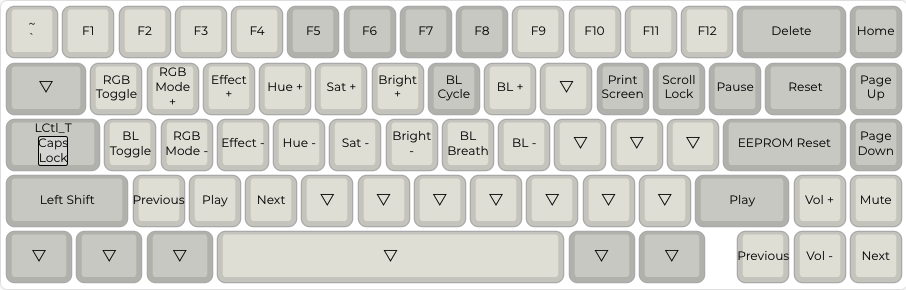
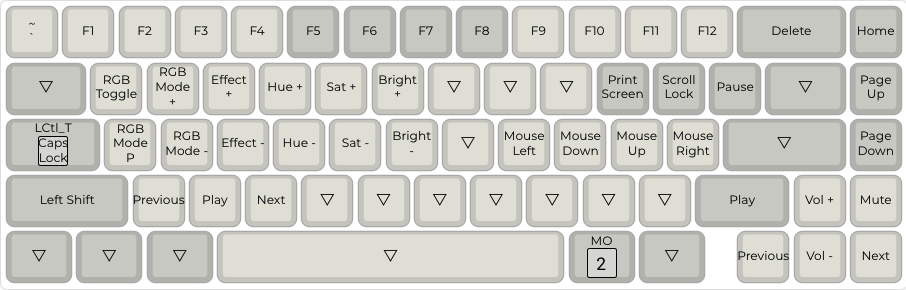
improved d65 config

diff --git a/kbdfans/d65/keymap.c b/kbdfans/d65/keymap.c
@@ -8,7 +8,8 @@
  */
 
 const uint16_t PROGMEM keymaps[][MATRIX_ROWS][MATRIX_COLS] = {
-	[0] = LAYOUT_65_ansi_blocker(KC_GESC, KC_1, KC_2, KC_3, KC_4, KC_5, KC_6, KC_7, KC_8, KC_9, KC_0, KC_MINS, KC_EQL, KC_BSPC, KC_HOME, KC_TAB, KC_Q, KC_W, KC_E, KC_R, KC_T, KC_Y, KC_U, KC_I, KC_O, KC_P, KC_LBRC, KC_RBRC, KC_BSLS, KC_PGUP, LCTL_T(KC_CAPS), KC_A, KC_S, KC_D, KC_F, KC_G, KC_H, KC_J, KC_K, KC_L, KC_SCLN, KC_QUOT, KC_ENT, KC_PGDN, KC_LSFT, KC_Z, KC_X, KC_C, KC_V, KC_B, KC_N, KC_M, KC_COMM, KC_DOT, KC_SLSH, KC_RSFT, KC_UP, KC_END, KC_LCTL, KC_LALT, KC_LGUI, KC_SPC, KC_RALT, MO(1), KC_LEFT, KC_DOWN, KC_RGHT),
-	[1] = LAYOUT_65_ansi_blocker(KC_GRV, KC_F1, KC_F2, KC_F3, KC_F4, KC_F5, KC_F6, KC_F7, KC_F8, KC_F9, KC_F10, KC_F11, KC_F12, KC_DEL, KC_HOME, KC_TRNS, RGB_TOG, RGB_MOD, RGB_SPI, RGB_HUI, RGB_SAI, RGB_VAI, BL_STEP, BL_INC, KC_TRNS, KC_PSCR, KC_SLCK, KC_PAUS, RESET, KC_PGUP, LCTL_T(KC_CAPS), BL_TOGG, RGB_RMOD, RGB_SPD, RGB_HUD, RGB_SAD, RGB_VAD, BL_BRTG, BL_DEC, KC_TRNS, KC_TRNS, KC_TRNS, EEP_RST, KC_PGDN, KC_LSFT, KC_MPRV, KC_MPLY, KC_MNXT, KC_TRNS, KC_TRNS, KC_TRNS, KC_TRNS, KC_TRNS, KC_TRNS, KC_TRNS, KC_MPLY, KC_VOLU, KC_MUTE, KC_TRNS, KC_TRNS, KC_TRNS, KC_TRNS, KC_TRNS, KC_TRNS, KC_MPRV, KC_VOLD, KC_MNXT)
+	[0] = LAYOUT_65_ansi_blocker(QK_GESC, KC_1, KC_2, KC_3, KC_4, KC_5, KC_6, KC_7, KC_8, KC_9, KC_0, KC_MINS, KC_EQL, KC_BSPC, KC_HOME, KC_TAB, KC_Q, KC_W, KC_E, KC_R, KC_T, KC_Y, KC_U, KC_I, KC_O, KC_P, KC_LBRC, KC_RBRC, KC_BSLS, KC_PGUP, LCTL_T(KC_CAPS), KC_A, KC_S, KC_D, KC_F, KC_G, KC_H, KC_J, KC_K, KC_L, KC_SCLN, KC_QUOT, KC_ENT, KC_PGDN, KC_LSFT, KC_Z, KC_X, KC_C, KC_V, KC_B, KC_N, KC_M, KC_COMM, KC_DOT, KC_SLSH, KC_RSFT, KC_UP, KC_END, KC_LCTL, KC_LALT, KC_LGUI, KC_SPC, KC_RALT, MO(1), KC_LEFT, KC_DOWN, KC_RGHT),
+	[1] = LAYOUT_65_ansi_blocker(KC_GRV, KC_F1, KC_F2, KC_F3, KC_F4, KC_F5, KC_F6, KC_F7, KC_F8, KC_F9, KC_F10, KC_F11, KC_F12, KC_DEL, KC_HOME, KC_TRNS, RGB_TOG, RGB_MOD, RGB_SPI, RGB_HUI, RGB_SAI, RGB_VAI, KC_TRNS, KC_TRNS, KC_TRNS, KC_PSCR, KC_SCRL, KC_PAUS, KC_TRNS, KC_PGUP, LCTL_T(KC_CAPS), RGB_M_P, RGB_RMOD, RGB_SPD, RGB_HUD, RGB_SAD, RGB_VAD, KC_TRNS, KC_MS_L, KC_MS_D, KC_MS_U, KC_MS_R, KC_TRNS, KC_PGDN, KC_LSFT, KC_MPRV, KC_MPLY, KC_MNXT, KC_TRNS, KC_TRNS, KC_TRNS, KC_TRNS, KC_TRNS, KC_TRNS, KC_TRNS, KC_MPLY, KC_VOLU, KC_MUTE, KC_TRNS, KC_TRNS, KC_TRNS, KC_TRNS, MO(2), KC_TRNS, KC_MPRV, KC_VOLD, KC_MNXT),
+	[2] = LAYOUT_65_ansi_blocker(KC_NO, KC_NO, KC_NO, KC_NO, KC_NO, KC_NO, KC_NO, KC_NO, KC_NO, KC_NO, KC_NO, KC_NO, KC_NO, KC_NO, KC_NO, KC_NO, RGB_M_P, RGB_M_B, RGB_M_R, RGB_M_SW, RGB_M_SN, RGB_M_K, RGB_M_X, RGB_M_G, RGB_M_T, KC_NO, KC_NO, KC_NO, QK_BOOT, KC_NO, KC_NO, KC_NO, KC_NO, KC_NO, KC_NO, KC_NO, KC_NO, KC_NO, KC_NO, KC_NO, KC_NO, KC_NO, EE_CLR, KC_NO, KC_NO, KC_NO, KC_NO, KC_NO, KC_NO, KC_NO, KC_NO, KC_NO, KC_NO, KC_NO, KC_NO, KC_NO, KC_NO, KC_NO, KC_NO, LAG_SWP, LAG_NRM, KC_NO, KC_TRNS, KC_NO, KC_NO, KC_NO, KC_NO)
 };
 

diff --git a/kbdfans/d65/readme.md b/kbdfans/d65/readme.md
@@ -16,12 +16,16 @@ LTO_ENABLE = yes
 
 More info about VIA can be found [here](https://www.caniusevia.com/docs/configuring_qmk/).
 
-## Current layouts
+## Current layers
 
 ### Layer 1
 
 ![Layer 1](layer1.png)
 
-### Layout 2
+### Layer 2
 
 ![Layer 2](layer2.png)
+
+### Layer 3
+
+![Layer 3](layer3.png)
